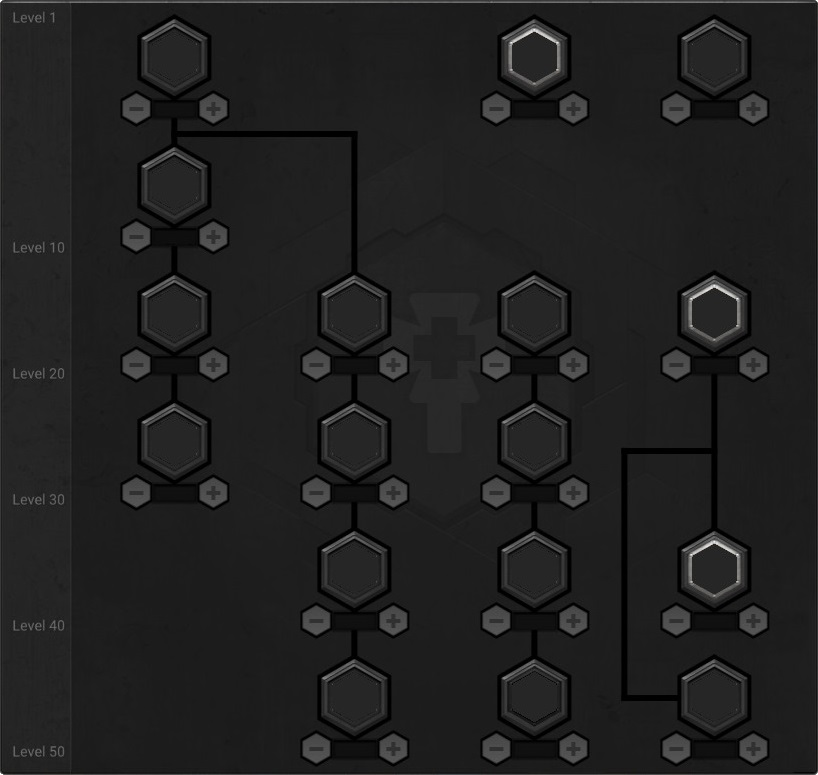
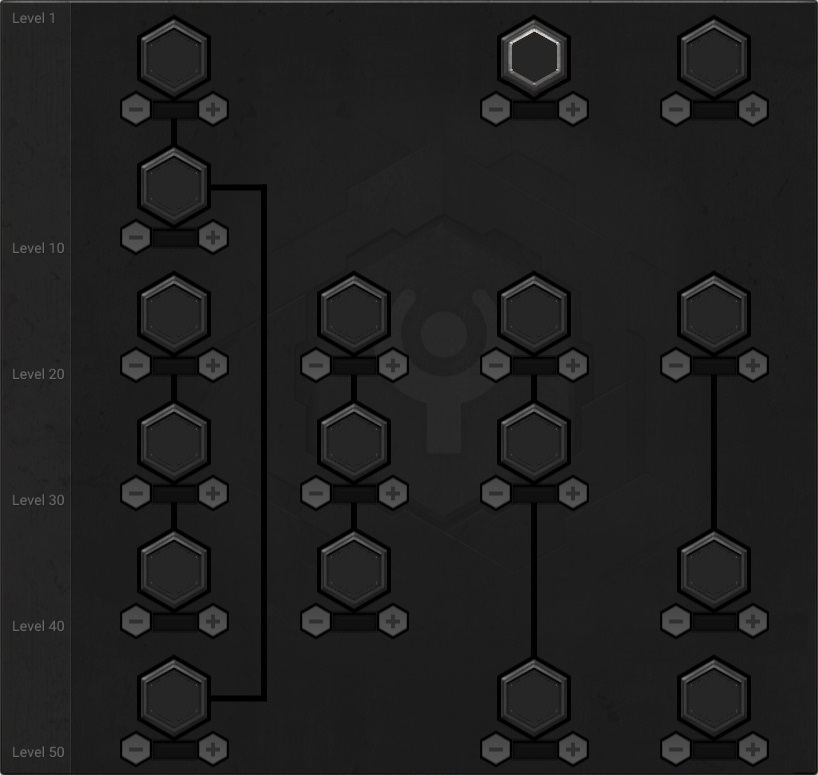
(wizard): finalized skills and add correct chart background

diff --git a/src/components/skills/wizard/ice-spear/ice-spear.tsx b/src/components/skills/wizard/ice-spear/ice-spear.tsx
@@ -15,21 +15,19 @@ export class IceSpearComponent {
   getRequirements(): string[] {
     return [
       `Level ${ IceSpearValues.levelRequirement[this.level] }+`,
-      `Shadow Cutter [Level 4+]`,
     ];
   }
 
   render() {
     return [
       <ms-icon name="ice-spear"></ms-icon>,
-      <ms-skill-overlay heading="¤¤¤¤"
-                        element="¤¤¤¤"
+      <ms-skill-overlay heading="Ice Spear"
+                        element="Ice"
                         level={ this.level }
-                        type="¤¤¤¤"
-                        weaponRequired="¤¤¤¤"
+                        type="Long Range / Magic"
+                        weaponRequired="Two-handed Staff"
                         requirements={ this.getRequirements() }
-                        spirit={ 11111 }
-                        cooldown={ 11111 }
+                        spirit={ 20 }
                         max={ this.max }>
         <ms-icon slot="icon" name="ice-spear"></ms-icon>
         <div slot="description">
@@ -37,7 +35,7 @@ export class IceSpearComponent {
           at the closest enemy up to <span>8</span> m in front of you.
           The spear of ice breaks on impact, its shards
           dealing <span>{ IceSpearValues.damage[this.level] }%</span> ice damage
-          to 8 enemies within 2.5 m and decreasing movement speed by <span>10%</span> for <span>3</span> sec.
+          to <span>8</span> enemies within <span>2.5</span> m and decreasing movement speed by <span>10%</span> for <span>3</span> sec.
           This cold effect can stack up to <span>6</span> times.
           Enemies at max stacks are frozen for <span>1</span> sec.
           Consumes <span>20</span> spirit.

diff --git a/src/components/skills/wizard/focus-seal/focus-seal.tsx b/src/components/skills/wizard/focus-seal/focus-seal.tsx
@@ -15,29 +15,25 @@ export class FocusSealComponent {
   getRequirements(): string[] {
     return [
       `Level ${ FocusSealValues.levelRequirement[this.level] }+`,
-      `Shadow Cutter [Level 4+]`,
+      `Magic Armor [Level 4+]`,
     ];
   }
 
   render() {
     return [
       <ms-icon name="focus-seal"></ms-icon>,
-      <ms-skill-overlay heading="¤¤¤¤"
-                        element="¤¤¤¤"
+      <ms-skill-overlay heading="Focus Seal"
                         level={ this.level }
-                        type="¤¤¤¤"
-                        weaponRequired="¤¤¤¤"
                         requirements={ this.getRequirements() }
-                        spirit={ 11111 }
-                        cooldown={ 11111 }
+                        cooldown={ 45 }
                         max={ this.max }>
         <ms-icon slot="icon" name="focus-seal"></ms-icon>
         <div slot="description">
-          Imbue the earth with your magical power, creating a seal that reaches 5 tiles around you.
+          Imbue the earth with your magical power, creating a seal that reaches <span>5</span> tiles around you.
           The seal lasts for <span>20</span> sec and increases the physical attack and magic attack of allies
           who absorb it by <span>{ FocusSealValues.increaseAllies[this.level] }%</span> for <span>180</span> sec.
-          Focus Seal also increases physical and magic attack
-          by <span>{ FocusSealValues.increaseSelf[this.level] }%</span>.
+          Focus Seal also increases the caster's physical and magic attack
+          by an additional <span>{ FocusSealValues.increaseSelf[this.level] }%</span>.
         </div>
       </ms-skill-overlay>
     ];

diff --git a/src/components/skills/wizard/phantom-claw/phantom-claw.tsx b/src/components/skills/wizard/phantom-claw/phantom-claw.tsx
@@ -13,29 +13,27 @@ export class PhantomClawComponent {
   @Prop({ reflectToAttr: true }) private max: number = PhantomClawValues.maxLevel;
 
   getRequirements(): string[] {
-    return [
-      `Level ${ PhantomClawValues.levelRequirement[this.level] }+`,
-      `Shadow Cutter [Level 4+]`,
-    ];
+    if (PhantomClawValues.levelRequirement[this.level] > 0) {
+      return [
+        `Level ${ PhantomClawValues.levelRequirement[this.level] }+`,
+      ];
+    }
   }
 
   render() {
     return [
       <ms-icon name="phantom-claw"></ms-icon>,
-      <ms-skill-overlay heading="¤¤¤¤"
-                        element="¤¤¤¤"
+      <ms-skill-overlay heading="Phantom Claw"
                         level={ this.level }
-                        type="¤¤¤¤"
-                        weaponRequired="¤¤¤¤"
+                        type="Long Range / Magic"
+                        weaponRequired="Two-handed Staff"
                         requirements={ this.getRequirements() }
-                        spirit={ 11111 }
-                        cooldown={ 11111 }
                         max={ this.max }>
         <ms-icon slot="icon" name="phantom-claw"></ms-icon>
         <div slot="description">
           Slash the air with sharp magical claws,
-          dealing <span>{ PhantomClawValues.damage[this.level] }%</span> damage
-          <span>2</span> times to <span>3</span> enemies up to <span>8</span> m in front of you.
+          dealing <span>{ PhantomClawValues.damage[this.level] }%</span> damage <span>2</span> times
+          to <span>3</span> enemies up to <span>8</span> m in front of you.
         </div>
       </ms-skill-overlay>
     ];

diff --git a/src/components/skills/wizard/ice-storm/ice-storm.tsx b/src/components/skills/wizard/ice-storm/ice-storm.tsx
@@ -15,29 +15,29 @@ export class IceStormComponent {
   getRequirements(): string[] {
     return [
       `Level ${ IceStormValues.levelRequirement[this.level] }+`,
-      `Shadow Cutter [Level 4+]`,
+      `Ice Spear [Level 4+]`,
     ];
   }
 
   render() {
     return [
       <ms-icon name="ice-storm"></ms-icon>,
-      <ms-skill-overlay heading="¤¤¤¤"
-                        element="¤¤¤¤"
+      <ms-skill-overlay heading="Ice Storm"
+                        element="Ice"
                         level={ this.level }
-                        type="¤¤¤¤"
-                        weaponRequired="¤¤¤¤"
+                        type="Long Range / Magic"
+                        weaponRequired="Two-handed Staff"
                         requirements={ this.getRequirements() }
-                        spirit={ 11111 }
-                        cooldown={ 11111 }
+                        spirit={ 30 }
+                        cooldown={ 12 }
                         max={ this.max }>
         <ms-icon slot="icon" name="ice-storm"></ms-icon>
         <div slot="description">
           Blast <span>4</span> ice crystals toward enemies up to <span>8</span> m in front of you,
           surrounding the targets with a cold front that generates a giant shard of ice.
           The shard deals <span>{ IceStormValues.damage[this.level] }%</span> ice damage
-          to 8 enemies within <span>3</span> m every <span>0.3</span> sec.
-          Consumes <span>40</span> spirit.
+          to <span>8</span> enemies within <span>2.5</span> m.
+          Consumes <span>30</span> spirit.
         </div>
       </ms-skill-overlay>
     ];

diff --git a/src/components/skills/wizard/chain-lightning/chain-lightning.tsx b/src/components/skills/wizard/chain-lightning/chain-lightning.tsx
@@ -15,27 +15,25 @@ export class ChainLightningComponent {
   getRequirements(): string[] {
     return [
       `Level ${ ChainLightningValues.levelRequirement[this.level] }+`,
-      `Shadow Cutter [Level 4+]`,
     ];
   }
 
   render() {
     return [
       <ms-icon name="chain-lightning"></ms-icon>,
-      <ms-skill-overlay heading="¤¤¤¤"
-                        element="¤¤¤¤"
+      <ms-skill-overlay heading="Chain Lightning"
+                        element="Electric"
                         level={ this.level }
-                        type="¤¤¤¤"
-                        weaponRequired="¤¤¤¤"
+                        type="Long Range / Magic"
+                        weaponRequired="Two-handed Staff"
                         requirements={ this.getRequirements() }
-                        spirit={ 11111 }
-                        cooldown={ 11111 }
+                        spirit={ 15 }
                         max={ this.max }>
         <ms-icon slot="icon" name="chain-lightning"></ms-icon>
         <div slot="description">
           Release an intense electric load that
           deals <span>{ ChainLightningValues.damage[this.level] }%</span> electric damage
-          to 8 enemies up to <span>8</span> m in front of you.
+          to <span>8</span> enemies up to <span>8</span> m in front of you.
           Enemies hit with this skill <span>5</span> times pulse with electric energy,
           attracting a bolt that deals an
           additional <span>{ ChainLightningValues.additionalDamage[this.level] }%</span> electric damage.

diff --git a/src/components/skills/wizard/arcane-blast/arcane-blast.tsx b/src/components/skills/wizard/arcane-blast/arcane-blast.tsx
@@ -13,23 +13,22 @@ export class ArcaneBlastComponent {
   @Prop({ reflectToAttr: true }) private max: number = ArcaneBlastValues.maxLevel;
 
   getRequirements(): string[] {
-    return [
-      `Level ${ ArcaneBlastValues.levelRequirement[this.level] }+`,
-      `Shadow Cutter [Level 4+]`,
-    ];
+    if (ArcaneBlastValues.levelRequirement[this.level] > 0) {
+      return [
+        `Level ${ ArcaneBlastValues.levelRequirement[this.level] }+`,
+      ];
+    }
   }
 
   render() {
     return [
       <ms-icon name="arcane-blast"></ms-icon>,
       <ms-skill-overlay heading="Arcane Blast"
-                        element="¤¤¤¤"
                         level={ this.level }
-                        type="¤¤¤¤"
-                        weaponRequired="¤¤¤¤"
+                        type="Long Range / Magic"
+                        weaponRequired="Two-handed Staff"
                         requirements={ this.getRequirements() }
-                        spirit={ 11111 }
-                        cooldown={ 11111 }
+                        cooldown={ 6 }
                         max={ this.max }>
         <ms-icon slot="icon" name="arcane-blast"></ms-icon>
         <div slot="description">

diff --git a/src/components/skills/wizard/thunderbolt/thunderbolt.tsx b/src/components/skills/wizard/thunderbolt/thunderbolt.tsx
@@ -15,21 +15,21 @@ export class ThunderboltComponent {
   getRequirements(): string[] {
     return [
       `Level ${ ThunderboltValues.levelRequirement[this.level] }+`,
-      `Shadow Cutter [Level 4+]`,
+      `Chain Lightning [Level 4+]`,
     ];
   }
 
   render() {
     return [
       <ms-icon name="thunderbolt"></ms-icon>,
-      <ms-skill-overlay heading="¤¤¤¤"
-                        element="¤¤¤¤"
+      <ms-skill-overlay heading="Thunderbolt"
+                        element="Electric"
                         level={ this.level }
-                        type="¤¤¤¤"
-                        weaponRequired="¤¤¤¤"
+                        type="Long Range / Magic"
+                        weaponRequired="Two-handed Staff"
                         requirements={ this.getRequirements() }
-                        spirit={ 11111 }
-                        cooldown={ 11111 }
+                        spirit={ 40 }
+                        cooldown={ 16 }
                         max={ this.max }>
         <ms-icon slot="icon" name="thunderbolt"></ms-icon>
         <div slot="description">

diff --git a/src/components/skills/wizard/flame-tornado/flame-tornado.tsx b/src/components/skills/wizard/flame-tornado/flame-tornado.tsx
@@ -15,21 +15,21 @@ export class FlameTornadoComponent {
   getRequirements(): string[] {
     return [
       `Level ${ FlameTornadoValues.levelRequirement[this.level] }+`,
-      `Shadow Cutter [Level 4+]`,
+      `Flame Wave [Level 4+]`,
     ];
   }
 
   render() {
     return [
       <ms-icon name="flame-tornado"></ms-icon>,
-      <ms-skill-overlay heading="¤¤¤¤"
-                        element="¤¤¤¤"
+      <ms-skill-overlay heading="Flame Tornado"
+                        element="Fire"
                         level={ this.level }
-                        type="¤¤¤¤"
-                        weaponRequired="¤¤¤¤"
+                        type="Long Range / Magic"
+                        weaponRequired="Two-handed Staff"
                         requirements={ this.getRequirements() }
-                        spirit={ 11111 }
-                        cooldown={ 11111 }
+                        spirit={ 40 }
+                        cooldown={ 16 }
                         max={ this.max }>
         <ms-icon slot="icon" name="flame-tornado"></ms-icon>
         <div slot="description">

diff --git a/src/components/skills/wizard/flame-wave/flame-wave.tsx b/src/components/skills/wizard/flame-wave/flame-wave.tsx
@@ -15,21 +15,19 @@ export class FlameWaveComponent {
   getRequirements(): string[] {
     return [
       `Level ${ FlameWaveValues.levelRequirement[this.level] }+`,
-      `Shadow Cutter [Level 4+]`,
     ];
   }
 
   render() {
     return [
       <ms-icon name="flame-wave"></ms-icon>,
-      <ms-skill-overlay heading="¤¤¤¤"
-                        element="¤¤¤¤"
+      <ms-skill-overlay heading="Flame Wave"
+                        element="Fire"
                         level={ this.level }
-                        type="¤¤¤¤"
-                        weaponRequired="¤¤¤¤"
+                        type="Long Range / Magic"
+                        weaponRequired="Two-handed Staff"
                         requirements={ this.getRequirements() }
-                        spirit={ 11111 }
-                        cooldown={ 11111 }
+                        spirit={ 20 }
                         max={ this.max }>
         <ms-icon slot="icon" name="flame-wave"></ms-icon>
         <div slot="description">

diff --git a/src/components/skills/wizard/mana-claw/mana-claw.tsx b/src/components/skills/wizard/mana-claw/mana-claw.tsx
@@ -15,21 +15,19 @@ export class ManaClawComponent {
   getRequirements(): string[] {
     return [
       `Level ${ ManaClawValues.levelRequirement[this.level] }+`,
-      `Shadow Cutter [Level 4+]`,
+      `Arcane Blast [Level 3+]`,
     ];
   }
 
   render() {
     return [
       <ms-icon name="mana-claw"></ms-icon>,
-      <ms-skill-overlay heading="¤¤¤¤"
-                        element="¤¤¤¤"
+      <ms-skill-overlay heading="Mana Claw"
                         level={ this.level }
-                        type="¤¤¤¤"
-                        weaponRequired="¤¤¤¤"
+                        type="Long Range / Magic"
+                        weaponRequired="Two-handed Staff"
                         requirements={ this.getRequirements() }
-                        spirit={ 11111 }
-                        cooldown={ 11111 }
+                        spirit={ 15 }
                         max={ this.max }>
         <ms-icon slot="icon" name="mana-claw"></ms-icon>
         <div slot="description">

diff --git a/src/components/skills/wizard/electromancy/electromancy.tsx b/src/components/skills/wizard/electromancy/electromancy.tsx
@@ -15,21 +15,19 @@ export class ElectromancyComponent {
   getRequirements(): string[] {
     return [
       `Level ${ ElectromancyValues.levelRequirement[this.level] }+`,
-      `Shadow Cutter [Level 4+]`,
+      `Chain Lightning [Level 5+]`,
+      `Thunderbolt [Level 5+]`,
     ];
   }
 
   render() {
     return [
       <ms-icon name="electromancy"></ms-icon>,
-      <ms-skill-overlay heading="¤¤¤¤"
-                        element="¤¤¤¤"
+      <ms-skill-overlay heading="Electromancy"
+                        element="Electric"
                         level={ this.level }
-                        type="¤¤¤¤"
-                        weaponRequired="¤¤¤¤"
+                        passive={ true }
                         requirements={ this.getRequirements() }
-                        spirit={ 11111 }
-                        cooldown={ 11111 }
                         max={ this.max }>
         <ms-icon slot="icon" name="electromancy"></ms-icon>
         <div slot="description">

diff --git a/src/components/skills/wizard/pyromancy/pyromancy.tsx b/src/components/skills/wizard/pyromancy/pyromancy.tsx
@@ -15,21 +15,19 @@ export class PyromancyComponent {
   getRequirements(): string[] {
     return [
       `Level ${ PyromancyValues.levelRequirement[this.level] }+`,
-      `Shadow Cutter [Level 4+]`,
+      `Flame Wave [Level 5+]`,
+      `Flame Tornado [Level 5+]`,
     ];
   }
 
   render() {
     return [
       <ms-icon name="pyromancy"></ms-icon>,
-      <ms-skill-overlay heading="¤¤¤¤"
-                        element="¤¤¤¤"
+      <ms-skill-overlay heading="Pyromancy"
+                        element="Fire"
                         level={ this.level }
-                        type="¤¤¤¤"
-                        weaponRequired="¤¤¤¤"
+                        passive={ true }
                         requirements={ this.getRequirements() }
-                        spirit={ 11111 }
-                        cooldown={ 11111 }
                         max={ this.max }>
         <ms-icon slot="icon" name="pyromancy"></ms-icon>
         <div slot="description">
